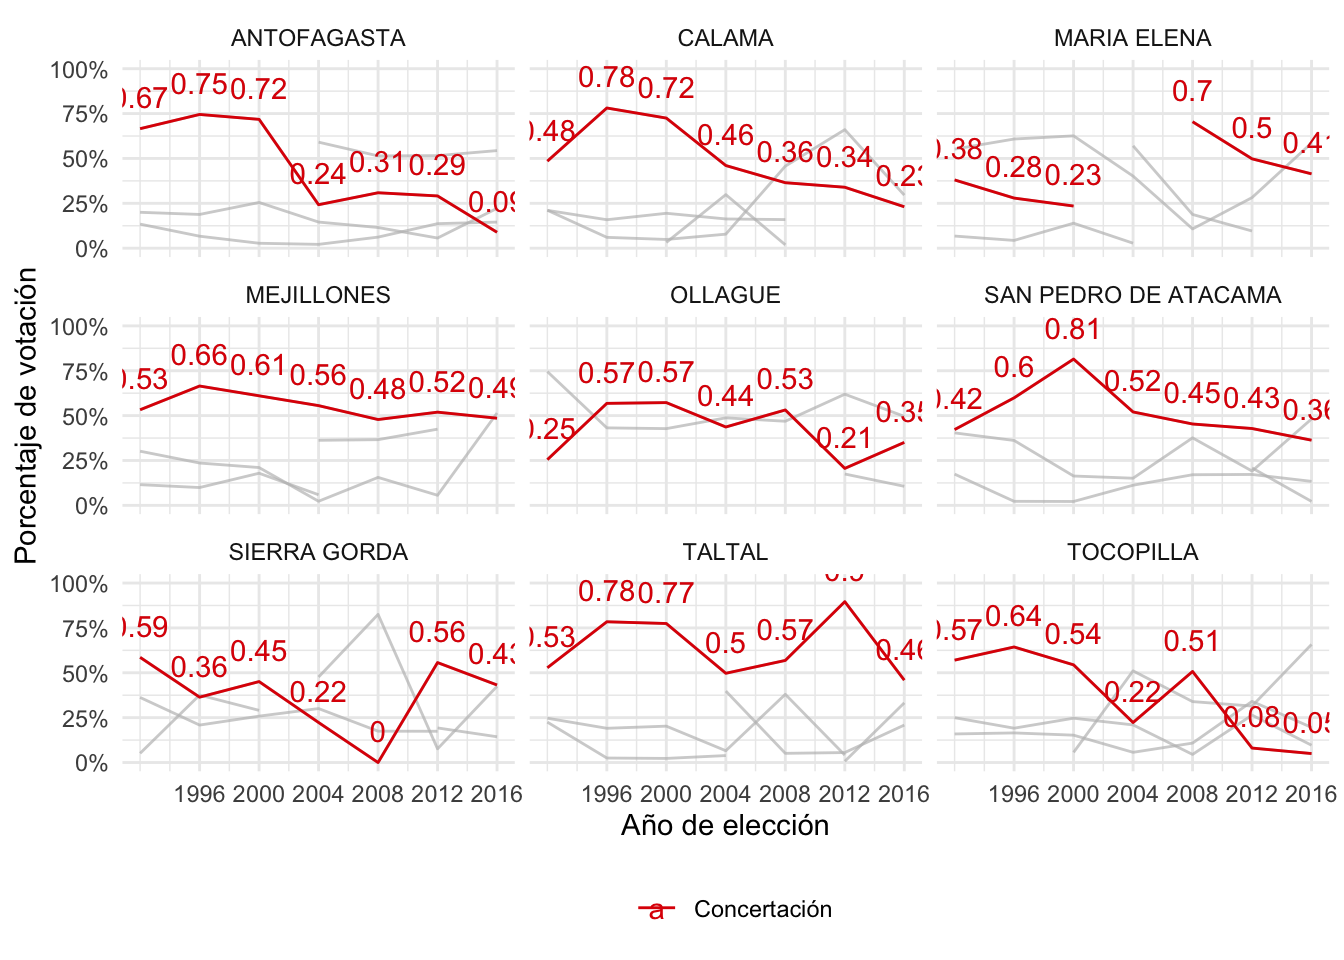
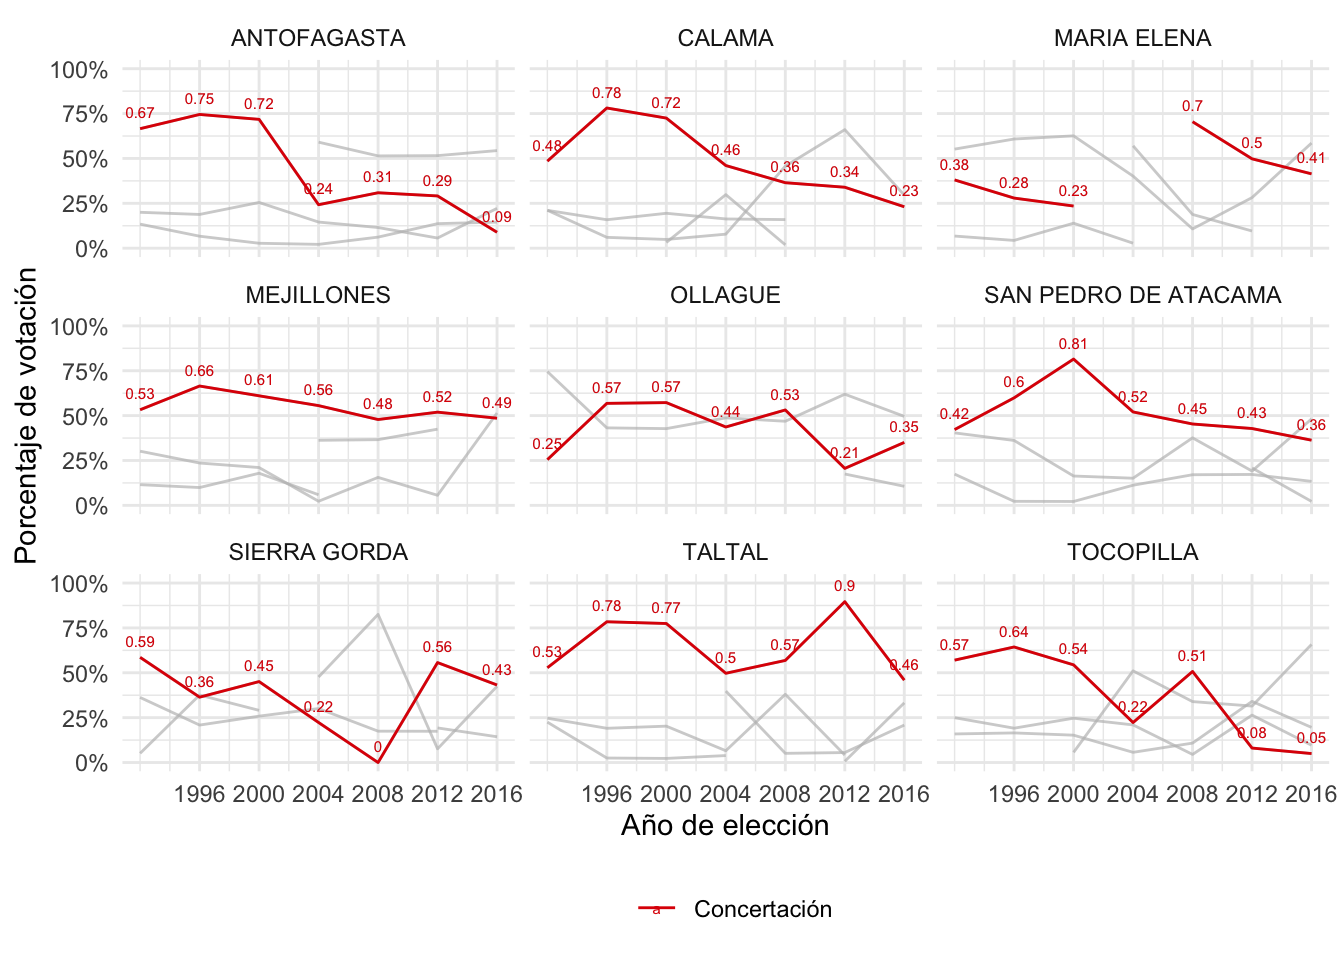
text size volumen 2

diff --git a/content/post/2020-10-04-cosas-sobre-el-norte-de-chile.html b/content/post/2020-10-04-cosas-sobre-el-norte-de-chile.html
@@ -21,12 +21,15 @@ editor_options:
 <p><img src="/post/2020-10-04-cosas-sobre-el-norte-de-chile_files/figure-html/unnamed-chunk-3-1.png" width="672" /></p>
 <p>Ahora, podríamos evaluar uno a uno el desempeño de las coaliciones. Para eso, nos olvidaremos de las demás por un segundo. Cosa de distinguir de mejor manera cómo le fue a, por ejemplo, la Concertación/Nueva Mayoría en la segunda región, destacaremos sólo coalición. Para eso usaremos <code>gghighlight</code></p>
 <pre class="r"><code>plot_a +
-  gghighlight(coalicion == &quot;Concertación&quot;, calculate_per_facet = T, use_direct_label = FALSE)</code></pre>
+  gghighlight(coalicion == &quot;Concertación&quot;, calculate_per_facet = T, 
+              use_direct_label = FALSE)</code></pre>
 <p><img src="/post/2020-10-04-cosas-sobre-el-norte-de-chile_files/figure-html/unnamed-chunk-4-1.png" width="672" /></p>
 <p>También, podríamos poner el % de la persona que ganó las elecciones si y sólo si la persona es de la Concertación.</p>
 <pre class="r"><code>plot_a +
-  geom_text(data = data[data$coalicion==&#39;Concertación&#39;,], aes(label = round(value, digits = 2)), vjust = -1) + 
-  gghighlight(coalicion == &quot;Concertación&quot;, calculate_per_facet = T, use_direct_label = FALSE)</code></pre>
+  geom_text(data = data[data$coalicion==&#39;Concertación&#39;,], 
+            aes(label = round(value, digits = 2)), vjust = -1, size = 2) + 
+  gghighlight(coalicion == &quot;Concertación&quot;, calculate_per_facet = T, 
+              use_direct_label = FALSE)</code></pre>
 <p><img src="/post/2020-10-04-cosas-sobre-el-norte-de-chile_files/figure-html/unnamed-chunk-5-1.png" width="672" /></p>
 <p>¿Por qué la coalición Concertación sacó tantos votos el 2012 en Taltal?</p>
 <p>Fui a la página del <a href="https://historico.servel.cl/servel/app/index.php?r=EleccionesGenerico&amp;id=8">SERVEL</a> para ver los resultados históricos. Seleccioné las elecciones municipales del 2012 en Taltal:</p>
